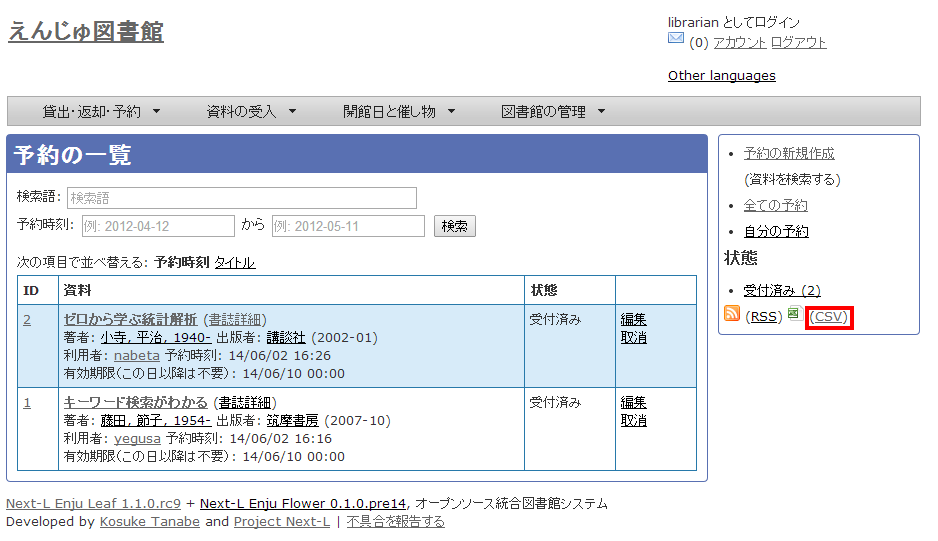
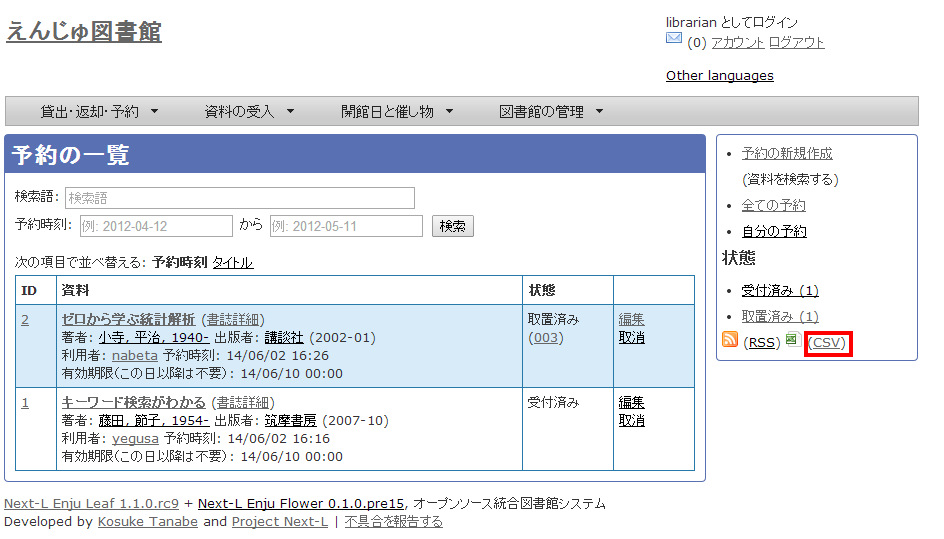
運用マニュアルの「6-3予約を受け付ける」に以下の修正 ・エクスポートCSVの説明を追加 ・取置済み資料の絞り込み表示の説明を追加

diff --git a/_includes/enju_operation/reserve.md b/_includes/enju_operation/reserve.md
@@ -24,15 +24,110 @@
    ![予約の一覧](assets/images/image_operation_reserve.png)
 2. 予約の一覧が表示されます。一覧を印刷したい場合は、右メニューの［CSV］をクリックしてCSVファイルを保存し、必要に応じてCSVファイルを印刷します。  
    ![CSV](assets/images/image_operation_200.png)
- 
-### ■予約の変更・取消をする
 
-1. ［貸出・返却・予約］メニューから［予約の一覧］を選択します。  
+<div class="alert alert-success">
+    <h4 class="alert-heading">【Column】CVS形式のデータファイル</h4>
+    <p>CSV形式のデータファイル（CSVファイル）とは、
+      項目をカンマで区切ったテキストファイルです。
+      1行目にそれぞれの項目に関わるフィールド名が記入されています。
+      フィールド名とその意味については次の通りです。</p>
+  <table class="table table-bordered table-condensed table-striped">
+    <caption>予約一覧のエクスポートCSVの項目</caption>
+    <thead>
+      <tr>
+        <th>フィールド名</th>
+        <th>データ形式</th>
+        <th>内容</th></tr>
+    </thead>
+    <tbody>
+      <tr>
+        <td>id</td>
+        <td>int</td>
+        <td>予約ID</td></tr>
+      <tr>
+        <td>title</td>
+        <td>utf8</td>
+        <td>予約資料のタイトル</td></tr>
+      <tr>
+        <td>isbn</td>
+        <td>ascii</td>
+        <td>予約資料のISBN</td></tr>
+      <tr>
+        <td>item_identifier</td>
+        <td>ascii</td>
+        <td>取置資料の所蔵情報ID（取置済みの場合のみ表示）</td></tr>
+      <tr>
+        <td>call_number</td>
+        <td>utf8</td>
+        <td>取置資料の請求記号（取置済みの場合のみ表示）</td></tr>
+      <tr>
+        <td>username</td>
+        <td>ascii</td>
+        <td>利用者名</td></tr>
+      <tr>
+        <td>created_at</td>
+        <td>ISO8601</td>
+        <td>予約時刻（例：2014-06-24 15:00:00 +0900）</td></tr>
+      <tr>
+        <td>expired_at</td>
+        <td>ISO8601</td>
+        <td>有効期限（例：2014-06-24 15:00:00 +0900）</td></tr>
+      <tr>
+        <td>state</td>
+        <td>utf8</td>
+        <td>状態（取置済み、受付済みetc）</td></tr>
+    </tbody>
+  </table>
+
+  <table class="table table-bordered table-condensed table-striped">
+    <caption>予約一覧のエクスポートCSVの例</caption>
+    <thead>
+      <tr>
+	<th>id</th>
+	<th>title</th>
+	<th>isbn</th>
+	<th>item_identifier</th>
+	<th>call_number</th>
+	<th>username</th>	
+	<th>created_at</th>	
+	<th>expired_at</th>
+	<th>state</th></tr>
+    </thead>
+    <tbody>
+      <tr>
+	<td>2</td>
+	<td>ゼロから学ぶ統計解析</td>
+	<td>9784061546561</td>
+	<td>003</td>
+	<td>417||K||お</td>
+	<td>nabeta</td>
+	<td>2014-06-02 16:26:48 +0900</td>
+	<td>2014-06-10 00:00:00 +0900</td>
+	<td>取置済み</td></tr>
+      <tr>
+	<td>1</td>
+	<td>キーワード検索がわかる</td>
+	<td>9784480063854</td>
+	<td></td>
+	<td></td>
+	<td>yegusa</td>
+	<td>2014-06-02 16:16:31 +0900</td>
+	<td>2014-06-10 00:00:00 +0900</td>
+	<td>受付済み</td></tr>
+      </tbody>
+    </table>
+</div>
+
+###■取置済みの資料を表示する
+
+状態が[取置済み]の予約資料のみを表示することができます。
+
+1. ［貸出・返却・予約］メニューから［予約の一覧］を選択します。
    ![予約の一覧](assets/images/image_operation_reserve.png)
-2. 編集したい場合は予約の[編集]を、削除したい場合は[削除]をクリックします。  
-   ![予約の編集等](assets/images/image_operation_202.png)
-3. 編集する場合は、有効期限などを変更して［予約を更新］ボタンをクリックします。  
-   ![予約を更新](assets/images/image_operation_203.png)
+2. 右メニューの[取り置き済み(n)]リンクをクリックします。
+    ![取置済みのみを表示](assets/images/image_operation_200_2.png)
+3. 状態が[取置済み]の予約資料のみが表示されます
+    ![取置済みの資料のみ出力](assets/images/image_operation_200_3.png)
  
 ### ■利用者に予約資料の到着を連絡する
 
@@ -47,3 +142,11 @@
 2. メールで連絡したい場合は、メールでの連絡を希望しているユーザの［メール連絡］にチェックを入れ、［メールを送信］ボタンをクリックします。
 3. メール以外の連絡方法を希望しているユーザについては、それぞれ個別に対応します。
 
+### ■予約の変更・取消をする
+
+1. ［貸出・返却・予約］メニューから［予約の一覧］を選択します。
+   ![予約の一覧](assets/images/image_operation_reserve.png)
+2. 編集したい場合は予約の[編集]を、削除したい場合は[削除]をクリックします。
+   ![予約の編集等](assets/images/image_operation_202.png)
+3. 編集する場合は、有効期限などを変更して［予約を更新］ボタンをクリックします。 
+   ![予約を更新](assets/images/image_operation_203.png)
